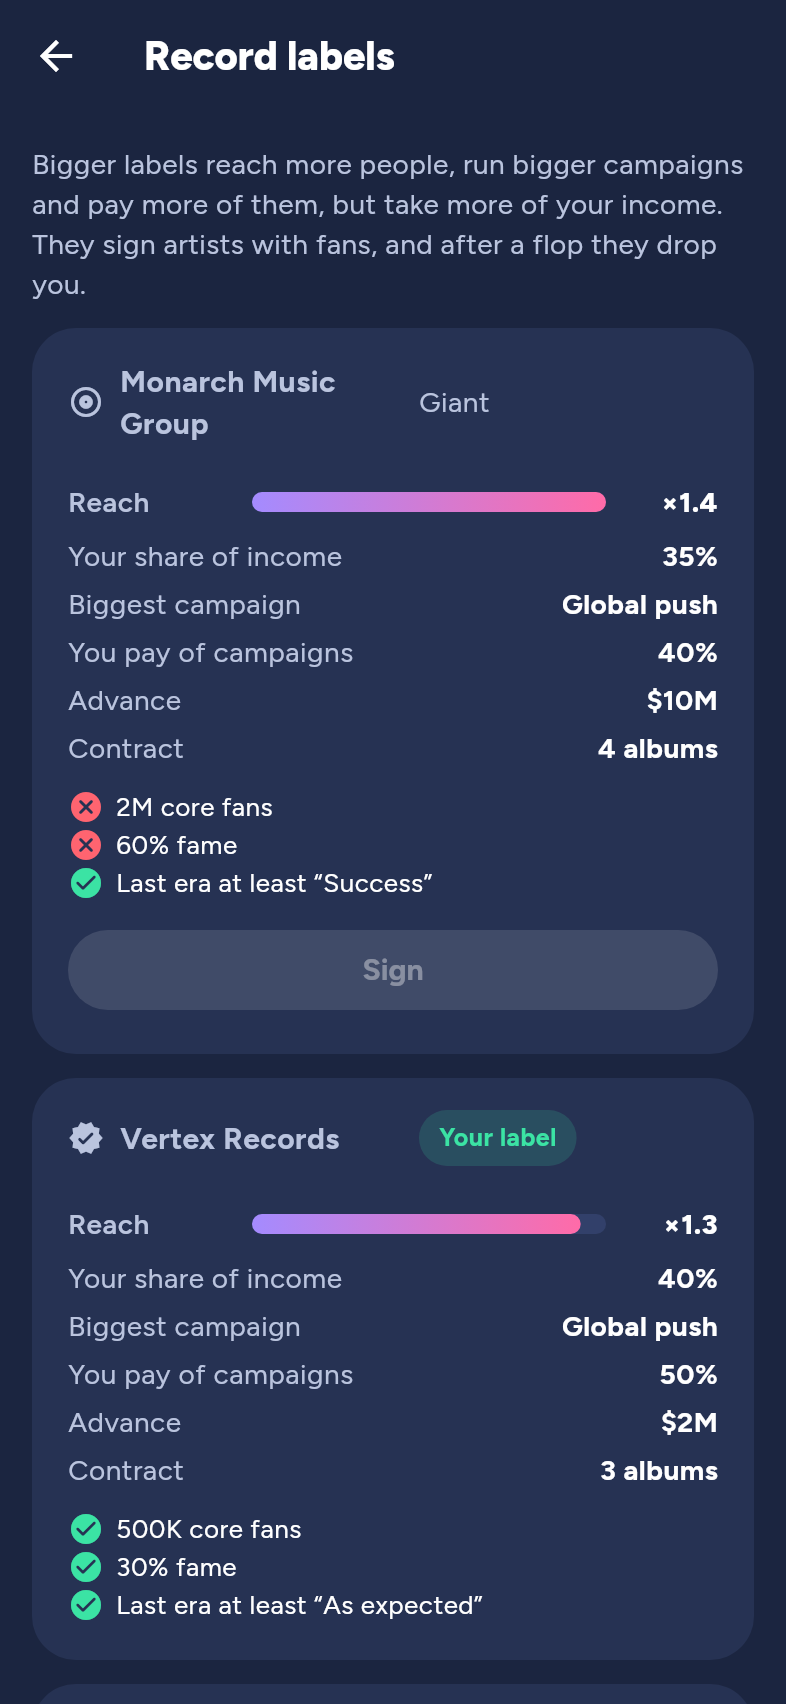
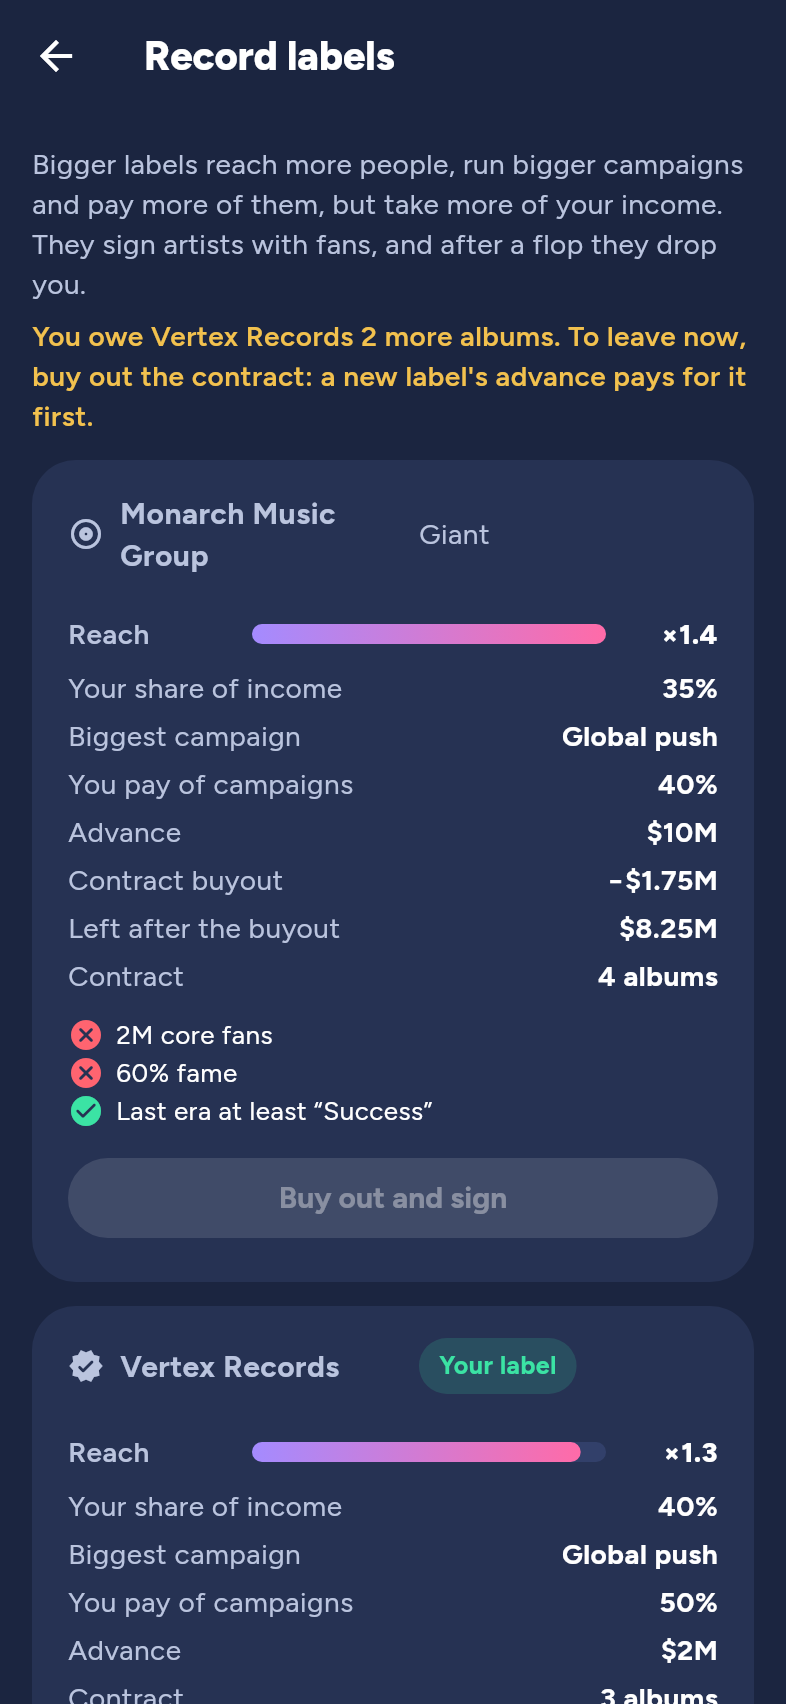
Buy out a label contract to leave early (K78, F42)
Leaving while albums are still owed now costs a buyout: per album owed,
its part of the advance and the label's cut at 50¢ a core fan (half in
Legend mode). A new label's advance pays for it first. The labels
screen shows the debt, the buyout and what is left; offers come under
contract too.

Claude-Session: https://claude.ai/code/session_01UqeaYiXbKvrTFgHV44HcjP

Changed region(s): [[0.0305, 0.1866, 0.9466, 1.0]]

diff --git a/app/lib/screens/labels_screen.dart b/app/lib/screens/labels_screen.dart
@@ -46,12 +46,22 @@ class _LabelsScreenState extends State<LabelsScreen> {
   Widget build(BuildContext context) {
     final l = context.l10n;
     final legend = _labels.isNotEmpty && _labels.first.legend;
+    final current = _labels.where((v) => v.isCurrent).firstOrNull;
+    final fmt = context.fmt;
     return Scaffold(
       appBar: AppBar(title: Text(l.labelsTitle)),
       body: ListView(
         padding: const EdgeInsets.all(16),
         children: [
           Text(l.labelsHint, style: TextStyle(color: AppColors.textMuted)),
+          if (current != null && current.buyoutCents > 0) ...[
+            const SizedBox(height: 6),
+            Text(
+                l.labelsContractHint(
+                    fmt.labelName(current.label), current.contractAlbumsLeft),
+                style: TextStyle(
+                    color: AppColors.gold, fontWeight: FontWeight.w600)),
+          ],
           if (legend) ...[
             const SizedBox(height: 6),
             Text(l.labelsLegendHint,
@@ -122,6 +132,14 @@ class _LabelCard extends StatelessWidget {
         term(l.labelMaxCampaign, fmt.campaign(x.maxCampaign)),
         term(l.labelCampaignShare, '${(x.campaignShare * 100).round()}%'),
         if (x.advanceCents > 0) term(l.labelAdvance, fmt.money(x.advanceCents)),
+        if (!view.isCurrent && view.buyoutCents > 0) ...[
+          term(l.labelBuyout, '−${fmt.money(view.buyoutCents)}'),
+          term(
+              l.labelNet,
+              view.netCents < 0
+                  ? '−${fmt.money(-view.netCents)}'
+                  : fmt.money(view.netCents)),
+        ],
         term(
             l.labelContract,
             x.contractAlbums == 0
@@ -140,11 +158,21 @@ class _LabelCard extends StatelessWidget {
               Expanded(child: Text(text, style: const TextStyle(fontSize: 13))),
             ]),
         if (!view.isCurrent) ...[
+          if (view.wouldSign && !view.canAfford) ...[
+            const SizedBox(height: 8),
+            Text(l.labelBuyoutShort,
+                style: TextStyle(color: AppColors.coral, fontSize: 13)),
+          ],
           const SizedBox(height: 10),
           FilledButton(
             onPressed: busy ? null : onSign,
-            child: Text(
-                x == Label.independent ? l.labelGoIndependent : l.labelSign),
+            child: Text(view.buyoutCents > 0
+                ? (x == Label.independent
+                    ? l.labelBuyoutIndependent
+                    : l.labelBuyoutSign)
+                : x == Label.independent
+                    ? l.labelGoIndependent
+                    : l.labelSign),
           ),
         ],
       ]),

diff --git a/packages/game/test/game_test.dart b/packages/game/test/game_test.dart
@@ -886,20 +886,32 @@ void main() {
       final song = g.writeSong(budget: BudgetTier.low).id;
       expect(() => g.releaseSingle(song, campaign: Campaign.intensive),
           _code('campaignLocked'));
-      // Bound by the contract, and the big labels want fans first.
-      expect(() => g.signLabel(Label.giant), _code('underContract'));
+      // The big labels want fans first.
+      expect(() => g.signLabel(Label.giant), _code('labelRefused'));
       final giant = g.labels.firstWhere((v) => v.label == Label.giant);
       expect(giant.missing, contains(LabelRequirement.fans));
-      // With the albums delivered and fans, a major signs the player.
+      // Leaving early means buying out the contract (K78): per album owed,
+      // half the $25K advance back and the label's 40% of 50¢ a fan.
       g.world.player!
-        ..contractAlbumsLeft = 0
         ..coreFans = 1e6
-        ..fame = 0.4;
-      final money = g.player.moneyCents;
+        ..fame = 0.4
+        ..moneyCents = 0;
+      final major = g.labels.firstWhere((v) => v.label == Label.major);
+      expect(major.buyoutCents, 2 * (1250000 + 20000000));
+      expect(major.canSign, isTrue);
+      // Going independent pays it all, and there is no money for it.
+      final own = g.labels.firstWhere((v) => v.label == Label.independent);
+      expect(own.canSign, isFalse);
+      expect(() => g.signLabel(Label.independent), _code('buyoutMoney'));
+      // The major's advance pays for it.
       g.signLabel(Label.major);
       expect(g.player.label, Label.major);
       expect(g.player.contractAlbumsLeft, 3);
-      expect(g.player.moneyCents, money + Label.major.advanceCents);
+      expect(g.player.moneyCents, major.netCents);
+      // With the albums delivered, leaving is free.
+      g.world.player!.contractAlbumsLeft = 0;
+      expect(
+          g.labels.firstWhere((v) => v.label == Label.giant).buyoutCents, 0);
       // The label pays most of a campaign.
       final before = g.player.moneyCents;
       g.releaseSingle(song, campaign: Campaign.global);

diff --git a/packages/game/lib/src/game_session.dart b/packages/game/lib/src/game_session.dart
@@ -781,18 +781,20 @@ class GameSession {
       ];
 
   /// Signs with [label] (or goes independent with [Label.independent]).
-  /// Not possible while albums are still owed to the current label.
+  /// While albums are still owed, the contract is bought out (docs K78):
+  /// the new advance goes towards it, the player pays the rest.
   void signLabel(Label label) {
     if (label == _p.label) {
       throw GameException('sameLabel', 'Already with this label');
     }
-    if (_p.contractAlbumsLeft > 0) {
-      throw GameException('underContract', 'Albums still owed to the label');
-    }
     if (Actions.labelMissing(world, _p, label).isNotEmpty) {
       throw GameException('labelRefused', 'The label turned you down');
     }
-    Actions.signLabel(world, _p, label);
+    final buyout = Actions.buyoutCents(world, _p);
+    if (buyout > _p.moneyCents + label.advanceCents) {
+      throw GameException('buyoutMoney', 'Not enough money for the buyout');
+    }
+    Actions.signLabel(world, _p, label, buyout: buyout > 0);
     _saveNow();
   }
 
@@ -1595,9 +1597,9 @@ class GameSession {
       events.add(EraClosed(p.lastEraResult!, p.lastEraUnits, p.eraExpected));
       if (before.label != Label.independent && p.label == Label.independent) {
         events.add(LabelDropped(before.label));
-      } else if (p.contractAlbumsLeft == 0 &&
-          p.lastEraResult!.index >= EraResult.normal.index) {
-        // A good era: the biggest label that would sign the player calls.
+      } else if (p.lastEraResult!.index >= EraResult.normal.index) {
+        // A good era: the biggest label that would sign the player calls
+        // (under contract too: it can buy the player out, docs K78).
         final offer = Label.values.reversed.firstWhere(
             (l) => Actions.labelMissing(w, p, l).isEmpty,
             orElse: () => p.label);

diff --git a/packages/simulation_core/lib/src/actions.dart b/packages/simulation_core/lib/src/actions.dart
@@ -438,9 +438,25 @@ abstract final class Actions {
     ];
   }
 
+  /// What leaving the current label costs while albums are still owed
+  /// (docs K78): for each album owed, its part of the advance back and the
+  /// label's cut of what the artist's audience would buy (50¢ a core fan).
+  /// Half in Legend mode; nothing once the contract is done.
+  static int buyoutCents(World w, Artist a) {
+    final l = a.label;
+    if (a.contractAlbumsLeft <= 0 || l.contractAlbums == 0) return 0;
+    final perAlbum = l.advanceCents / l.contractAlbums +
+        (1 - l.artistShare) * a.coreFans * 50;
+    final scale = w.difficulty == Difficulty.legend ? 0.5 : 1.0;
+    return (a.contractAlbumsLeft * perAlbum * scale).round();
+  }
+
   /// Signs with [label] (or leaves to go independent): its reach and
-  /// money split apply from now on, the advance is paid at once.
-  static void signLabel(World w, Artist a, Label label) {
+  /// money split apply from now on, the advance is paid at once. Leaving
+  /// before the albums owed are delivered pays [buyoutCents] (the new
+  /// label's advance goes towards it).
+  static void signLabel(World w, Artist a, Label label, {bool buyout = false}) {
+    if (buyout) a.moneyCents -= buyoutCents(w, a);
     a.label = label;
     a.labelReach = label.reach;
     a.artistShare = label.artistShare;

diff --git a/packages/game/lib/src/views.dart b/packages/game/lib/src/views.dart
@@ -690,6 +690,8 @@ class LabelView {
   LabelView.of(World w, Artist p, this.label, this.missing)
       : isCurrent = p.label == label,
         contractAlbumsLeft = p.contractAlbumsLeft,
+        buyoutCents = Actions.buyoutCents(w, p),
+        moneyCents = p.moneyCents,
         legend = w.difficulty == Difficulty.legend;
 
   final Label label;
@@ -698,10 +700,18 @@ class LabelView {
   final List<LabelRequirement> missing;
   final bool isCurrent;
   final int contractAlbumsLeft;
+
+  /// What leaving the current label costs now (0: free to go; docs K78).
+  final int buyoutCents;
+  final int moneyCents;
   final bool legend;
 
   bool get wouldSign => missing.isEmpty;
-  bool get canSign => wouldSign && !isCurrent && contractAlbumsLeft == 0;
+
+  /// Money in hand after signing: the advance less the buyout.
+  int get netCents => label.advanceCents - buyoutCents;
+  bool get canAfford => moneyCents + netCents >= 0;
+  bool get canSign => wouldSign && !isCurrent && canAfford;
 
   /// Requirements as they apply in this game mode.
   double get minFans => label.minFans * (legend ? 0.4 : 1.0);

diff --git a/app/lib/core/format.dart b/app/lib/core/format.dart
@@ -489,6 +489,7 @@ class Fmt {
       'hasVideo' => l.errorHasVideo,
       'campaignLocked' => l.errorCampaignLocked,
       'underContract' => l.errorUnderContract,
+      'buyoutMoney' => l.errorBuyoutMoney,
       'labelRefused' => l.errorLabelRefused,
       'alreadyScheduled' => l.errorAlreadyScheduled,
       'skillMaxed' => l.errorSkillMaxed,

diff --git a/tools/l10n/gen_arb.py b/tools/l10n/gen_arb.py
@@ -88,15 +88,22 @@ k('labelCurrent','Your label','Senin şirketin')
 k('labelSign','Sign','İmzala')
 k('labelGoIndependent','Go independent','Bağımsız ol')
 k('labelSigned','You signed with {label}!','{label} ile anlaştın!', label='String')
-k('labelOwed','You owe {label} {count} more albums.','{label} şirketine {count} albüm daha borçlusun.', label='String', count='int')
+k('labelOwed','You owe {label} {count} more albums (EPs don\'t count), or buy out the contract.','{label} şirketine {count} albüm daha borçlusun (EP sayılmaz) ya da sözleşmeyi feshedebilirsin.', label='String', count='int')
 k('labelFree','No albums owed: you can sign with another label.','Albüm borcun yok: başka bir şirkete geçebilirsin.')
 k('labelsHint','Bigger labels reach more people, run bigger campaigns and pay more of them, but take more of your income. They sign artists with fans, and after a flop they drop you.','Büyük şirketler daha çok kişiye ulaşır, daha büyük kampanyalar yapar ve masrafın çoğunu öder, ama gelirinden daha çok pay alır. Hayranı olan sanatçıyı imzalarlar; flop yaparsan sözleşmeni bitirirler.')
-k('labelsLegendHint','Legend mode: labels ask for less and never drop you.','Efsane mod: şirketler daha az şey ister ve seni asla bırakmaz.')
+k('labelsLegendHint','Legend mode: labels ask for less, never drop you and let you buy out a contract for half.','Efsane mod: şirketler daha az şey ister, seni asla bırakmaz ve sözleşmeni yarı bedele feshedebilirsin.')
+k('labelsContractHint','You owe {label} {count} more albums. To leave now, buy out the contract: a new label\'s advance pays for it first.','{label} şirketine {count} albüm daha borçlusun. Şimdi ayrılmak için sözleşmeyi feshet: bedeli önce yeni şirketin avansından ödenir.', label='String', count='int')
+k('labelBuyout','Contract buyout','Sözleşme fesih bedeli')
+k('labelNet','Left after the buyout','Fesihten sonra eline geçen')
+k('labelBuyoutSign','Buy out and sign','Feshet ve imzala')
+k('labelBuyoutIndependent','Buy out and go independent','Feshet ve bağımsız ol')
+k('labelBuyoutShort','Not enough money for the buyout.','Fesih bedeli için paran yetmiyor.')
 k('campaignLockedHint','Your label can\'t run this one','Şirketin bunu yapamaz')
 k('eventLabelOffer','{label} wants to sign you! See Career → Record label.','{label} seni imzalamak istiyor! Kariyer → Plak şirketi.', label='String')
 k('eventLabelDropped','After the flop, {label} ended your contract. You are independent again.','Flop sonrası {label} sözleşmeni bitirdi. Yeniden bağımsızsın.', label='String')
 k('errorCampaignLocked','Your label can\'t run that big a campaign.','Şirketin bu kadar büyük bir kampanya yapamaz.')
 k('errorUnderContract','You still owe your label albums.','Şirketine hâlâ albüm borçlusun.')
+k('errorBuyoutMoney','Not enough money to buy out your contract.','Sözleşmeni feshetmeye paran yetmiyor.')
 k('errorLabelRefused','This label won\'t sign you yet.','Bu şirket seni henüz imzalamıyor.')
 k('startLevel','Start level','Başlangıç seviyesi')
 k('tierUnknown','Unknown','Bilinmeyen')

diff --git a/docs/README.md b/docs/README.md
@@ -105,6 +105,7 @@ Bu kararlar alınmıştır; değiştirmek için bilinçli bir revizyon gerekir.
 | K75 | **Streaming çağında albüm bombası ve radyo ağırlığı (F25, F37):** (1) Albüm parçalarının hayran dinlemesi çıkış haftalarında × (1 + 12 × playlist payı × e^(−hafta/1,5)): hayranlar bütün albümü dinler, parçalar listeye akar, sonra radyo almadıkları için geriler. Herkese (rakiplere de) uygulanır: 2021'de liste girişlerinin ~%25'i albüm parçası (önce %11). (2) Hot 100'de radyo puanı bölücüsü 900 → 450 (radyo 2 kat). Tepe şarkılarda radyo payı %16–27. Ölçüm: `tools/sim_cli/bin/radio_cuts_probe.dart`. #1 devri yılda 9–14 farklı şarkı, en uzun 9–16 hafta. Bağımsız erken kariyer etkilenmedi (×3 etkiliyordu). JT tekrarı: Man of the Woods ilk hafta 795K → 1,09M (gerçekte 293K; T16 kararı gereği büyük rakamlar kabul). |
 | K76 | **Ayrıntılı turneler (F39):** Turne bacaklardan oluşur; her bacak bir pazar (ABD, Kanada, İngiltere ve İrlanda, Avrupa, Latin Amerika, Asya, Avustralya ve Yeni Zelanda; simülasyonun bölge dinleyicilerinin bir payı), bir mekan boyutu ve konser sayısı. Gerçek şehirler (ör. ABD'de 18, Avrupa'da 16, İstanbul dahil), uydurma mekan adları ("Northline Arena", "The Paramount Theatre"); bir dünyada aynı şehirdeki aynı boy mekan her turnede aynı ad ve kapasite. Konserler şehirlere ağırlığa göre dağılır (büyük şehir ek gece alır, boy başına gece sınırı kulüp 2 → stadyum 6), haftada 3 konser, her bacak yeni haftada başlar. Talep: pazarın sadık hayranlarının %18'i + sıradan dinleyicilerin %0,7'si × sıcaklık × sahne performansı; uğranmayan şehirlerin dörtte biri gelir; bir şehrin talebi gecelerine bölünür. Bilet fiyatı dönemin normal fiyatının %60–200'ü (2000'de 2020'nin ~yarısı, 2026'da 1,15 katı); pahalı bilette sıradan dinleyici çok, hayran az vazgeçer. Prodüksiyon sade/standart/şov (gecelik maliyet ×0,7/×1/×1,8; hayran, sadakat ve heyecan ×0,85/×1/×1,25). Ön grup: oyuncudan küçük ve hayranı olan rakipler (aynı tür önce); gecelik ücret (ünlüyle artar), kendi hayranlarından bir kısmını getirir, seyircinin %1'i onun hayranı olur. Merch: kişi başı ~$15 (2020), %60'ı kalır. Nakliye: bacak başına (evde yarısı). Her konserin sonucu (bilet, gişe, kapalı gişe) saklanır; turne detay ekranında konser konser görünür. Eski kayıtlardaki turneler aynı haftalarla bacaklara çevrilir. |
 | K77 | **Festivaller ve en çok hasılat yapan turneler (F40, F41):** 16 uydurma festival yıllık takvimde (ör. Desert Bloom/Palm Springs, Greenhill/Somerset, Riverside Rock/Nuremberg, Istanbul Soundwaves, Neon Tokyo); her biri şehir, pazar, hafta, gün sayısı, günlük kalabalık, manşet ücreti ve isteğe bağlı tür listesiyle (Riverside Rock rock/metal/punk/indie, Rolling Block hip-hop/R&B/afrobeats ve 2015'ten beri). Sahne yeri oyuncunun büyüklüğüne göre: manşet (3M sadık hayran veya şöhret %55), ikinci manşet (800K / %30), ana sahne (150K / %12), küçük sahne (10K / %2); kalabalığın %60/35/18/6'sı izler, ücret manşet ücretinin %100/25/5/0,8'i × dönem fiyatı. Rezervasyon bir sonraki edisyon için ücretsiz yapılır ve iptal edilebilir; yer rezervasyon anındaki büyüklükle sabitlenir. Konser haftasında: ücret (menajer payı düşülür), izleyenlerin %3–8'i sadık hayran (karizmaya göre), %40'ı sıradan dinleyici, heyecan ve küçük bir sahne performansı artışı; türü dışındaki izleyicide ×0,6. Afiş: rakipler şöhret + popülerliğe göre 3/5/8/10 kişilik sıralara dizilir, oyuncu kendi sırasında. Rakipler de turneye çıkar: yılda bir, 200K+ sadık hayranı olan, son 78 haftada albüm çıkarmış ve 2 yıldır turnelemeyen sanatçı %60 olasılıkla büyüklüğüne uygun en büyük mekan boyunda (en az 10 konser) turneye çıkar; turne adı albümden ("... World Tour") ya da "<isim> Live". Listeler sekmesindeki TURNELER panosu yıl yıl (turne haftalarına eşit dağıtılarak, içinde bulunulan yıl bugüne kadar) ve tüm zamanlar sıralar; oyuncunun süren turnesi çalınan konserlerden sayılır, biten turneler kayda geçer. |
+| K78 | **Sözleşme feshi (F42):** Albüm borcu bitmeden şirketten ayrılmak artık mümkün: fesih bedeli = borçlu her albüm için avansın o albüme düşen payı + şirketin gelir payı × sadık hayran başına 50¢ (Efsane modda yarısı). Yeni şirketin avansı önce bu bedele gider, kalanını oyuncu öder; bağımsız olmak için bedelin tamamı ödenir, para yetmezse olmaz. Şirketler ekranı borcu, fesih bedelini ve imzadan sonra eline geçeni gösterir; düğme "Feshet ve imzala". İyi bir dönemden sonra gelen şirket teklifleri artık sözleşme sürerken de geliyor. Kariyer ekranındaki borç yazısı EP'lerin sayılmadığını söylüyor. |
 | K23 | ChatGPT planındaki ekranlar, rekorlar, kampanyalar, finans, bildirimler, ödüller, Kolay mod ve 10 performans kuralı dokümanlara taşındı. |
 
 ## Yol Haritası

diff --git a/docs/feedback.md b/docs/feedback.md
@@ -104,6 +104,7 @@ Kaynak: **E** = Emir'in notu, **T** = Claude'un test oyunu. Öncelik: **1** = ö
 | F39 | **Turne çok basit** (Emir): kaç konser, hangi kıtalar, hangi arenalar/stadyumlar; uydurma mekan adları, ortalama bilet fiyatı, ön grup, "her türlü detay". | ✅ K76: bacaklar (pazar + mekan boyu + konser sayısı), gerçek şehirler, uydurma mekanlar, konser takvimi, bilet fiyatı, prodüksiyon, ön grup, merch, nakliye, kapalı gişe; planlayıcıda tahmin ve program, yoldayken konser konser sonuçlar. |
 | F40 | **Festivaller** (Emir: "Festivalleri ekle"). | ✅ K77: 16 uydurma festival, sahne yerleri (manşet → küçük sahne), ücret, izleyici, hayran kazanımı, tür kısıtları, afiş; Kariyer sekmesinde "Festival sezonu". |
 | F41 | **En çok hasılat yapan turneler** (Emir). | ✅ K77: rakipler de turneye çıkıyor; Listeler → TURNELER: yıllık ve tüm zamanlar gişe sıralaması, oyuncu dahil. |
+| F42 | **Efsane modda küçük şirketle başladım, ayrılamıyorum** (Emir). Tek çıkış 2 albüm teslim etmekti (EP sayılmıyordu) ve şirketler ekranı nedenini söylemiyordu. | ✅ K78: sözleşme feshi; bedel yeni şirketin avansından düşülür, Efsane modda yarı fiyat; ekranda borç ve bedel görünür. |
 
 ## Test oyunu 3 — Gerçek kariyer tekrarı (JT, Gerçekçi mod)
 
